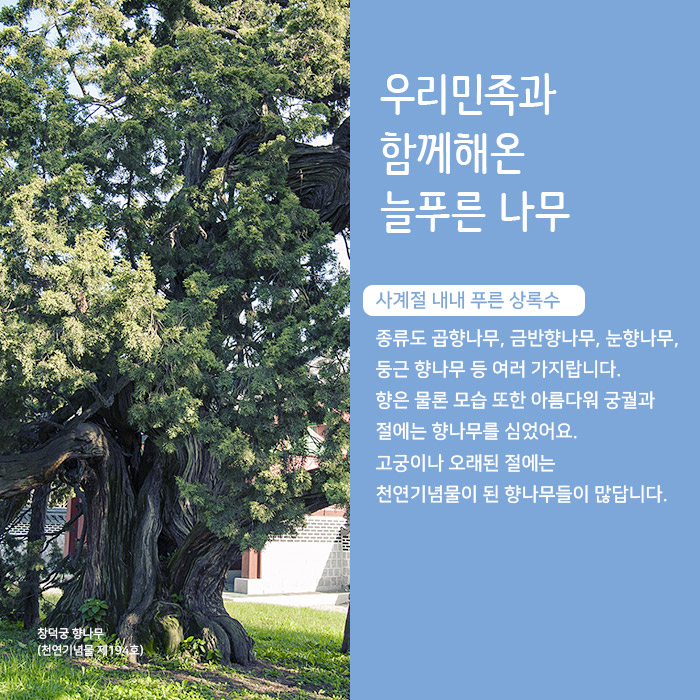
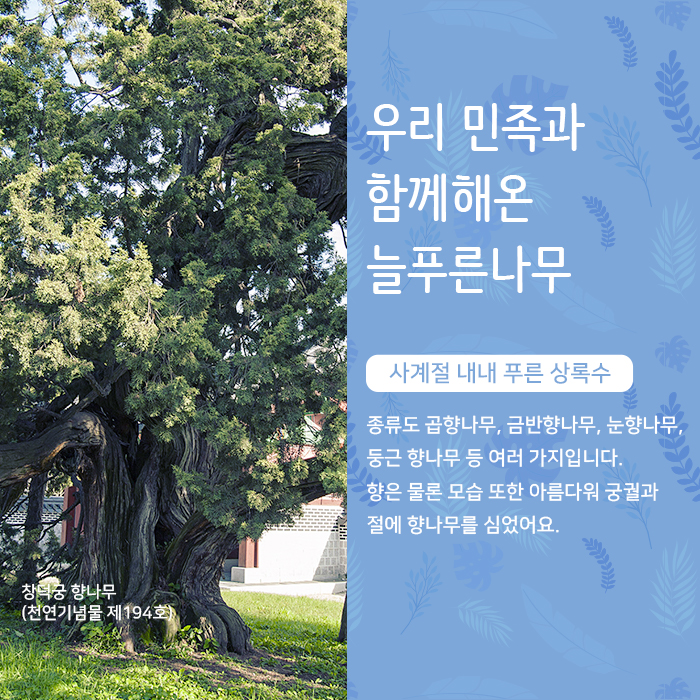
Modification

diff --git a/index_25.html b/index_25.html
@@ -96,13 +96,10 @@
 <h3>우리 민족과
     함께해온 
     늘푸른나무 </h3>
-<p>사계절 내내 푸른 상록수
-    종류도 곱향나무, 금반향나무, 눈향나무, 
-    둥근 향나무 등 여러 가지랍니다.
-    향은 물론 모습 또한 아름다워 궁궐과 
-    절에는 향나무를 심었어요.
-    고궁이나 오래된 절에는 
-    천연기념물이 된 향나무들이 많답니다.</p>
+<p>종류도 곱향나무, 금반향나무, 눈향나무, 
+        둥근 향나무 등 여러 가지입니다.
+        향은 물론 모습 또한 아름다워 궁궐과 
+        절에 향나무를 심었어요.</p>
 
 <p>꽃 - 4월에 꽃이 펴요. 
     암꽃과 수꽃이 다른 나무에 피는 암수딴그루에요. 
